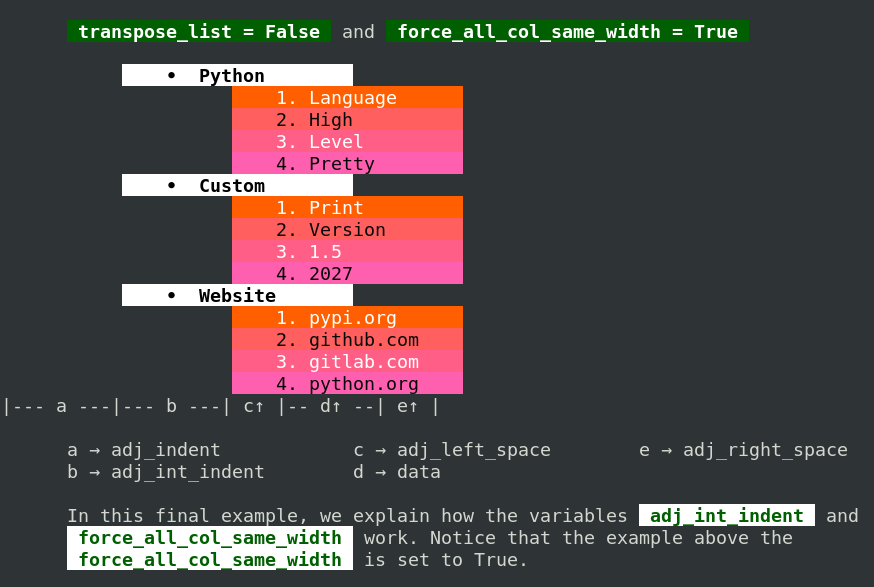
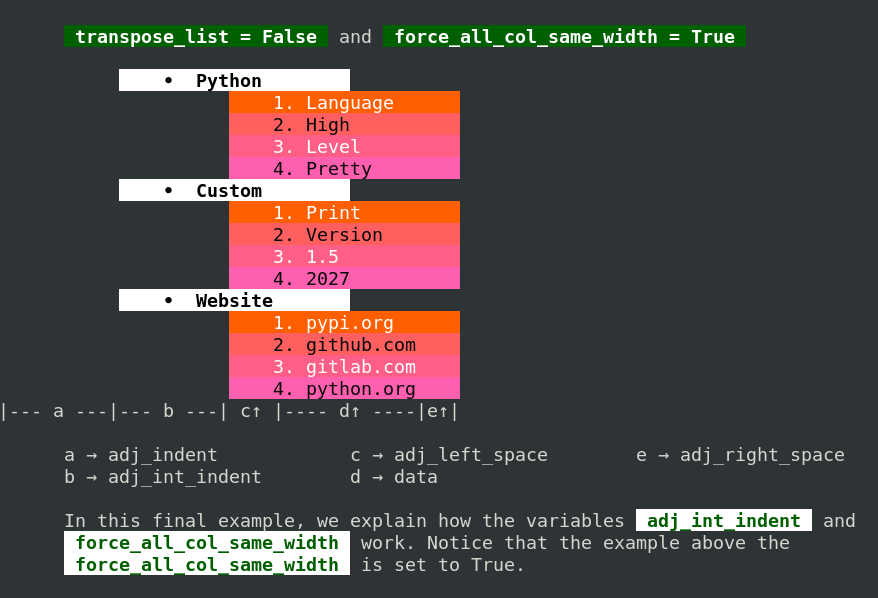
fix md files

diff --git a/custom_print/help.py b/custom_print/help.py
@@ -5012,7 +5012,7 @@ def print_simple_list_info():
     nl.adj_right_space = 4
 
     nl.print_simple_list(table)
-    message = f'''|--- a ---|--- b ---| c\u2191 |-- d\u2191 --| e\u2191 |
+    message = f'''|--- a ---|--- b ---| c\u2191 |---- d\u2191 ----|e\u2191|
 
       a \u2192 adj_indent            c \u2192 adj_left_space        e \u2192 adj_right_space
       b \u2192 adj_int_indent        d \u2192 data

diff --git a/readme/NestedList.md b/readme/NestedList.md
@@ -13,43 +13,43 @@
 * [**print_simple_list**](#print-simple-list)
 
        Default Values
-                                                                           
-         print_nested_list         print_simple_list                       
-                                                                           
-         id Section (Row, Col)     Header Section                          
-                                                                           
-       • id_on = True            • bullet = "•"                            
-       • id_bg = 234             • header_bg = 231                         
-       • id_fg = 231             • header_fg = 16                          
-       • id_bold = True          • header_bold   = True                    
-       • id_dim  = False         • header_dim    = False                   
-       • id_italic = True        • header_italic = False                   
-       • id_strike = False       • header_strike = False                   
-       • id_hidden = False       • header_hidden = False                   
-       • id_inverse   = False    • header_inverse   = False                
-       • id_blinking  = False    • header_blinking  = False                
-       • id_underline = False    • header_underline = False                
-                                                                           
-       • adj_middle_space = 2    • adj_int_indent = 4                      
-                                 • force_all_col_same_width = True         
-                                                                           
 
-                                                                           
-         Both Methods Share These Variables                                
-                                                                           
-         Data Section                                                      
-                                                                           
-       • data_bg = 202           • self.data_bg_step = 1                   
-       • data_fg = 231           • self.data_bg_stop = 207                 
-       • data_bold   = False     • self.data_fg_step = 1                   
-       • data_dim    = False     • self.data_fg_stop = 232                 
-       • data_italic = False                                               
-       • data_strike = False     • adj_left_space   = 2                    
-       • data_hidden = False                                               
-       • data_inverse   = False  • adj_right_space  = 2                    
-       • data_blinking  = False  • adj_indent       = 2                    
-       • data_underline = False  • transpose_list   = False                
-                                                                           
+         print_nested_list         print_simple_list
+
+         id Section (Row, Col)     Header Section
+
+       • id_on = True            • bullet = "•"
+       • id_bg = 234             • header_bg = 231
+       • id_fg = 231             • header_fg = 16
+       • id_bold = True          • header_bold   = True
+       • id_dim  = False         • header_dim    = False
+       • id_italic = True        • header_italic = False
+       • id_strike = False       • header_strike = False
+       • id_hidden = False       • header_hidden = False
+       • id_inverse   = False    • header_inverse   = False
+       • id_blinking  = False    • header_blinking  = False
+       • id_underline = False    • header_underline = False
+
+       • adj_middle_space = 2    • adj_int_indent = 4
+                                 • force_all_col_same_width = True
+
+
+
+         Both Methods Share These Variables
+
+         Data Section
+
+       • data_bg = 202           • self.data_bg_step = 1
+       • data_fg = 231           • self.data_bg_stop = 207
+       • data_bold   = False     • self.data_fg_step = 1
+       • data_dim    = False     • self.data_fg_stop = 232
+       • data_italic = False
+       • data_strike = False     • adj_left_space   = 2
+       • data_hidden = False
+       • data_inverse   = False  • adj_right_space  = 2
+       • data_blinking  = False  • adj_indent       = 2
+       • data_underline = False  • transpose_list   = False
+
 
        Note 1: Both methods use the same variables for the data section,
                with one exceptions:
@@ -59,13 +59,13 @@
                print_simple_list().
 
 
-               The variables  adj_init_indent  and  force_all_col_same_width 
+               The variables  adj_init_indent  and  force_all_col_same_width
                only affect the print_simple_list() method and have no effect on
                print_nested_list().
 
        Note 2: The  bullet  character used in the print_simple_list() method
                (first row or column of this) class can be customized, but it has
-               limitations. For instance, you can replace the original  bullet 
+               limitations. For instance, you can replace the original  bullet
                with another character (up to two characters). If you try to use
                three or more characters, the NestedList class will automatically
                replace them with the corresponding numbering (starting at 0.).
@@ -77,7 +77,7 @@
 
 # print nested list
       The example below illustrates how the variables affect the output when
-      printing data using this methods. The variables  data_bg_step, 
+      printing data using this methods. The variables  data_bg_step,
        data_fg_step, data_bg_start,  and  data_bg_stop  behave exactly the same
       as in the FancyFormat class. Please refer to the documentation of that
       class for details.
@@ -101,7 +101,7 @@ nl.print_nested_list(table)
 
 # print simple list
     The example below illustrates how the variables affect the output when
-    printing data using this methods. The variables  data_bg_step, 
+    printing data using this methods. The variables  data_bg_step,
     data_fg_step, data_bg_start,  and  data_bg_stop  behave exactly the same
     as in the FancyFormat class. Please refer to the documentation of that
     class for details.

diff --git a/readme/AsciiArt.md b/readme/AsciiArt.md
@@ -16,30 +16,30 @@ The table below describes all the supported names for letters, numbers, and symb
 
 ## Description of Ascii Letters Keyboard
 
-
-       1     Alpha         Yes         No          No         No          23    
-       2     ANSI_Shadow   Yes         No          Yes        Yes         8     
-       3     Big           Yes         Yes         Yes        Yes         8     
-       4     Blocks        Yes         No          Yes        Yes         13    
-       5     Bulbhead      Yes         No          Yes        Yes         6     
-       6     Classy        Yes         Yes         Yes        Yes         8     
-       7     Colossal      Yes         Yes         Yes        Yes         10    
-       8     Crazy         Yes         Yes         Yes        Yes         15    
-       9     Doh           Yes         Yes         Yes        Yes         18    
-       10    Doom          Yes         Yes         Yes        Yes         8     
-       11    Epic          Yes         No          Yes        Yes         10    
-       12    Graceful      Yes         No          Yes        Yes         6     
-       13    Larry         Yes         Yes         Yes        Yes         9     
-       14    Money_NE      Yes         Yes         Yes        Yes         10    
-       15    Money_NW      Yes         Yes         Yes        Yes         10    
-       16    Money_SE      Yes         Yes         Yes        Yes         11    
-       17    Money_SW      Yes         Yes         Yes        Yes         11    
-       18    Mono          Yes         Yes         Yes        Yes         9     
-       19    Moon          Yes         No          No         No          5     
-       20    Moon2         Yes         No          No         No          5     
-       21    Roman         Yes         Yes         Yes        Yes         9     
-       22    Standard      Yes         Yes         Yes        Yes         7     
-       23    Sweet         No          Yes         Yes        Yes         12    
+      No.    Type           Uppercase    Lowercase    Shiff_On    Shiff_Off      Rows
+       1     Alpha             Yes          No           No          No           23    
+       2     ANSI_Shadow       Yes          No           Yes         Yes          8     
+       3     Big               Yes          Yes          Yes         Yes          8     
+       4     Blocks            Yes          No           Yes         Yes          13    
+       5     Bulbhead          Yes          No           Yes         Yes          6     
+       6     Classy            Yes          Yes          Yes         Yes          8     
+       7     Colossal          Yes          Yes          Yes         Yes          10    
+       8     Crazy             Yes          Yes          Yes         Yes          15    
+       9     Doh               Yes          Yes          Yes         Yes          18    
+       10    Doom              Yes          Yes          Yes         Yes          8     
+       11    Epic              Yes          No           Yes         Yes          10    
+       12    Graceful          Yes          No           Yes         Yes          6     
+       13    Larry             Yes          Yes          Yes         Yes          9     
+       14    Money_NE          Yes          Yes          Yes         Yes          10    
+       15    Money_NW          Yes          Yes          Yes         Yes          10    
+       16    Money_SE          Yes          Yes          Yes         Yes          11    
+       17    Money_SW          Yes          Yes          Yes         Yes          11    
+       18    Mono              Yes          Yes          Yes         Yes          9     
+       19    Moon              Yes          No           No          No           5     
+       20    Moon2             Yes          No           No          No           5     
+       21    Roman             Yes          Yes          Yes         Yes          9     
+       22    Standard          Yes          Yes          Yes         Yes          7     
+       23    Sweet             No           Yes          Yes         Yes          12    
                                                                                 
                                                   Table Ascii Letters Available 
 

diff --git a/readme/FancyMessage.md b/readme/FancyMessage.md
@@ -36,55 +36,51 @@ This class contains 3 methods and the attributes and their default values are di
     body_bold   = False        right_indent = 2            body_blinking  = False
     body_msg    = "Body Msg"   top_lines    = 1            body_underline = False
     help_lines  = False        bottom_lines = 1
-```
 
 
-    The following options work when length is set to Length_bg.ONLY_WORD.
 
-    They don't do anything when length is set to Length_bg.All_ROW.
+   # The following options work when length is set to Length_bg.ONLY_WORD.
+
+   # They don't do anything when length is set to Length_bg.All_ROW.
 
 	adj_bg_lines_to_right_indent  = False
 
 	adj_bg_msg_to_space_available = False
 
-    Note: All the above variables are being used by both methods, print_fancy_message and print_fancy_note.
-
+   # Note: All the above variables are being used by both methods, print_fancy_message and print_fancy_note.
+```
 
 [**Top**](#fancymessage)
 
 ## Note Default Values
 
 ```python
-    note_msg  = " Note: "   note_align   = Align.JUSTIFY        note_blinking    = False
-    note_bg   = 231         note_strike  = False                note_underline
+    note_msg    = " Note: "     note_align   = Align.JUSTIFY        note_blinking = False
+    note_bg     = 231           note_strike  = False                note_underline = False          
+    note_fg     = 0             note_italic  = False                note_left_space = 2                 
+    note_bold   = False         note_inverse = False                note_right_space = 2
+    note_dim = False            note_hidden  = False                note_position = 1
     
-#----------------------------------------------------------------------------------------+
-#  Vertical line Variables                                                               |
-#----------------------------------------------------------------------------------------+   
-  = False
-    note_fg   = 0           note_italic  = False                note_position    = 1
-    note_bold = False       note_inverse = False                note_right_space = 2
-    note_dim  = False       note_hidden  = False                note_left_space  = 2
 ```
 
 ## Title Default Values
 
 ```python
-    title_msg  = ""         title_align   = Align.LEFT          title_blinking      = False
-    title_bg   = 4          title_strike  = False               title_underline     = False
-    title_fg   = 231        title_italic  = False               title_indent        = 2
-    title_bold = False      title_inverse = False               title_body_lines    = 1
-    title_dim  = False      title_hidden  = False
+    title_msg  = ""             title_align   = Align.LEFT          title_blinking      = False
+    title_bg   = 4              title_strike  = False               title_underline     = False
+    title_fg   = 231            title_italic  = False               title_indent        = 2
+    title_bold = False          title_inverse = False               title_body_lines    = 1
+    title_dim  = False          title_hidden  = False
 ```
 
 ## Footnote Default Values
 
 ```python
-    footnote_msg  = ""      footnote_align   = Align.RIGHT      footnote_blinking   = False
-    footnote_bg   = 4       footnote_strike  = False            footnote_underline  = False
-    footnote_fg	  = 231     footnote_italic  = False            footnote_indent     = 2
-    footnote_bold = False   footnote_inverse = False            footnote_body_lines = 1
-    footnote_dim  = False   footnote_hidden  = False
+    footnote_msg  = ""          footnote_align   = Align.RIGHT      footnote_blinking   = False
+    footnote_bg   = 4           footnote_strike  = False            footnote_underline  = False
+    footnote_fg	  = 231         footnote_italic  = False            footnote_indent     = 2
+    footnote_bold = False       footnote_inverse = False            footnote_body_lines = 1
+    footnote_dim  = False       footnote_hidden  = False
 ```
     Body Section is being used by both methods print_fancy_message and print_fancy_note.
 ## Fancy Message Examples

diff --git a/readme/README.md b/readme/README.md
@@ -7,20 +7,26 @@
 
 <strong> FancyFormat class has been updated in the new verison. A few variables are being changed.  </strong>
 
+        FancyFormat:
+                middle_left_corner_chr  = " " (1.7V)       # before: left_lateral_corner_chr  1.4V
+                middle_right_corner_chr = " " (1.7V)       # before: right_lateral_corner_chr 1.4V
+                title_xx                      (1.7)        # before: xx_title
+                header_xx                     (1.7)        # before: xx_header
+                and so on....
+        FancyDivider                                       # before: Divider 1.4V
+
 ## New
 |  Version      | Topics |
 |:--------------|:---------------------------------------------|
 |  1.1.4        |  -----                                       |
 |  1.1.7        |  AsciiArt, NestedList                        |
-|  1.1.7        |  AsciiArt, NestedList, Help on the Terminal  |
+|  1.1.9        |  AsciiArt, NestedList, Help in the Terminal  |
 
 
-        middle_left_corner_chr  = " " (1.7V)       # before: left_lateral_corner_chr  1.4V
-        middle_right_corner_chr = " " (1.7V)       # before: right_lateral_corner_chr 1.4V
-        FancyDivider                               # before: Divider 1.4V
+
         
 
-        To see documentation on terminal:
+        To see documentation in terminal:
                 custom_print 
                 custom_print help
 

diff --git a/readme/PyLO.md b/readme/PyLO.md
@@ -2209,6 +2209,8 @@ true_condition_list, false_condition_list =
 pylo.split_list_by_condition(data = matrix, col_index = 2, condition="Fail", sensitive_case = False,  
                              operator = pylo.Operator.EQUAL_TO, start_row = 1)    
 ```
+![Alt text](pylo_list_condition_01.png)
+
 #### [Back](README.md)
 
 https://github.com/acma82/custom_print
